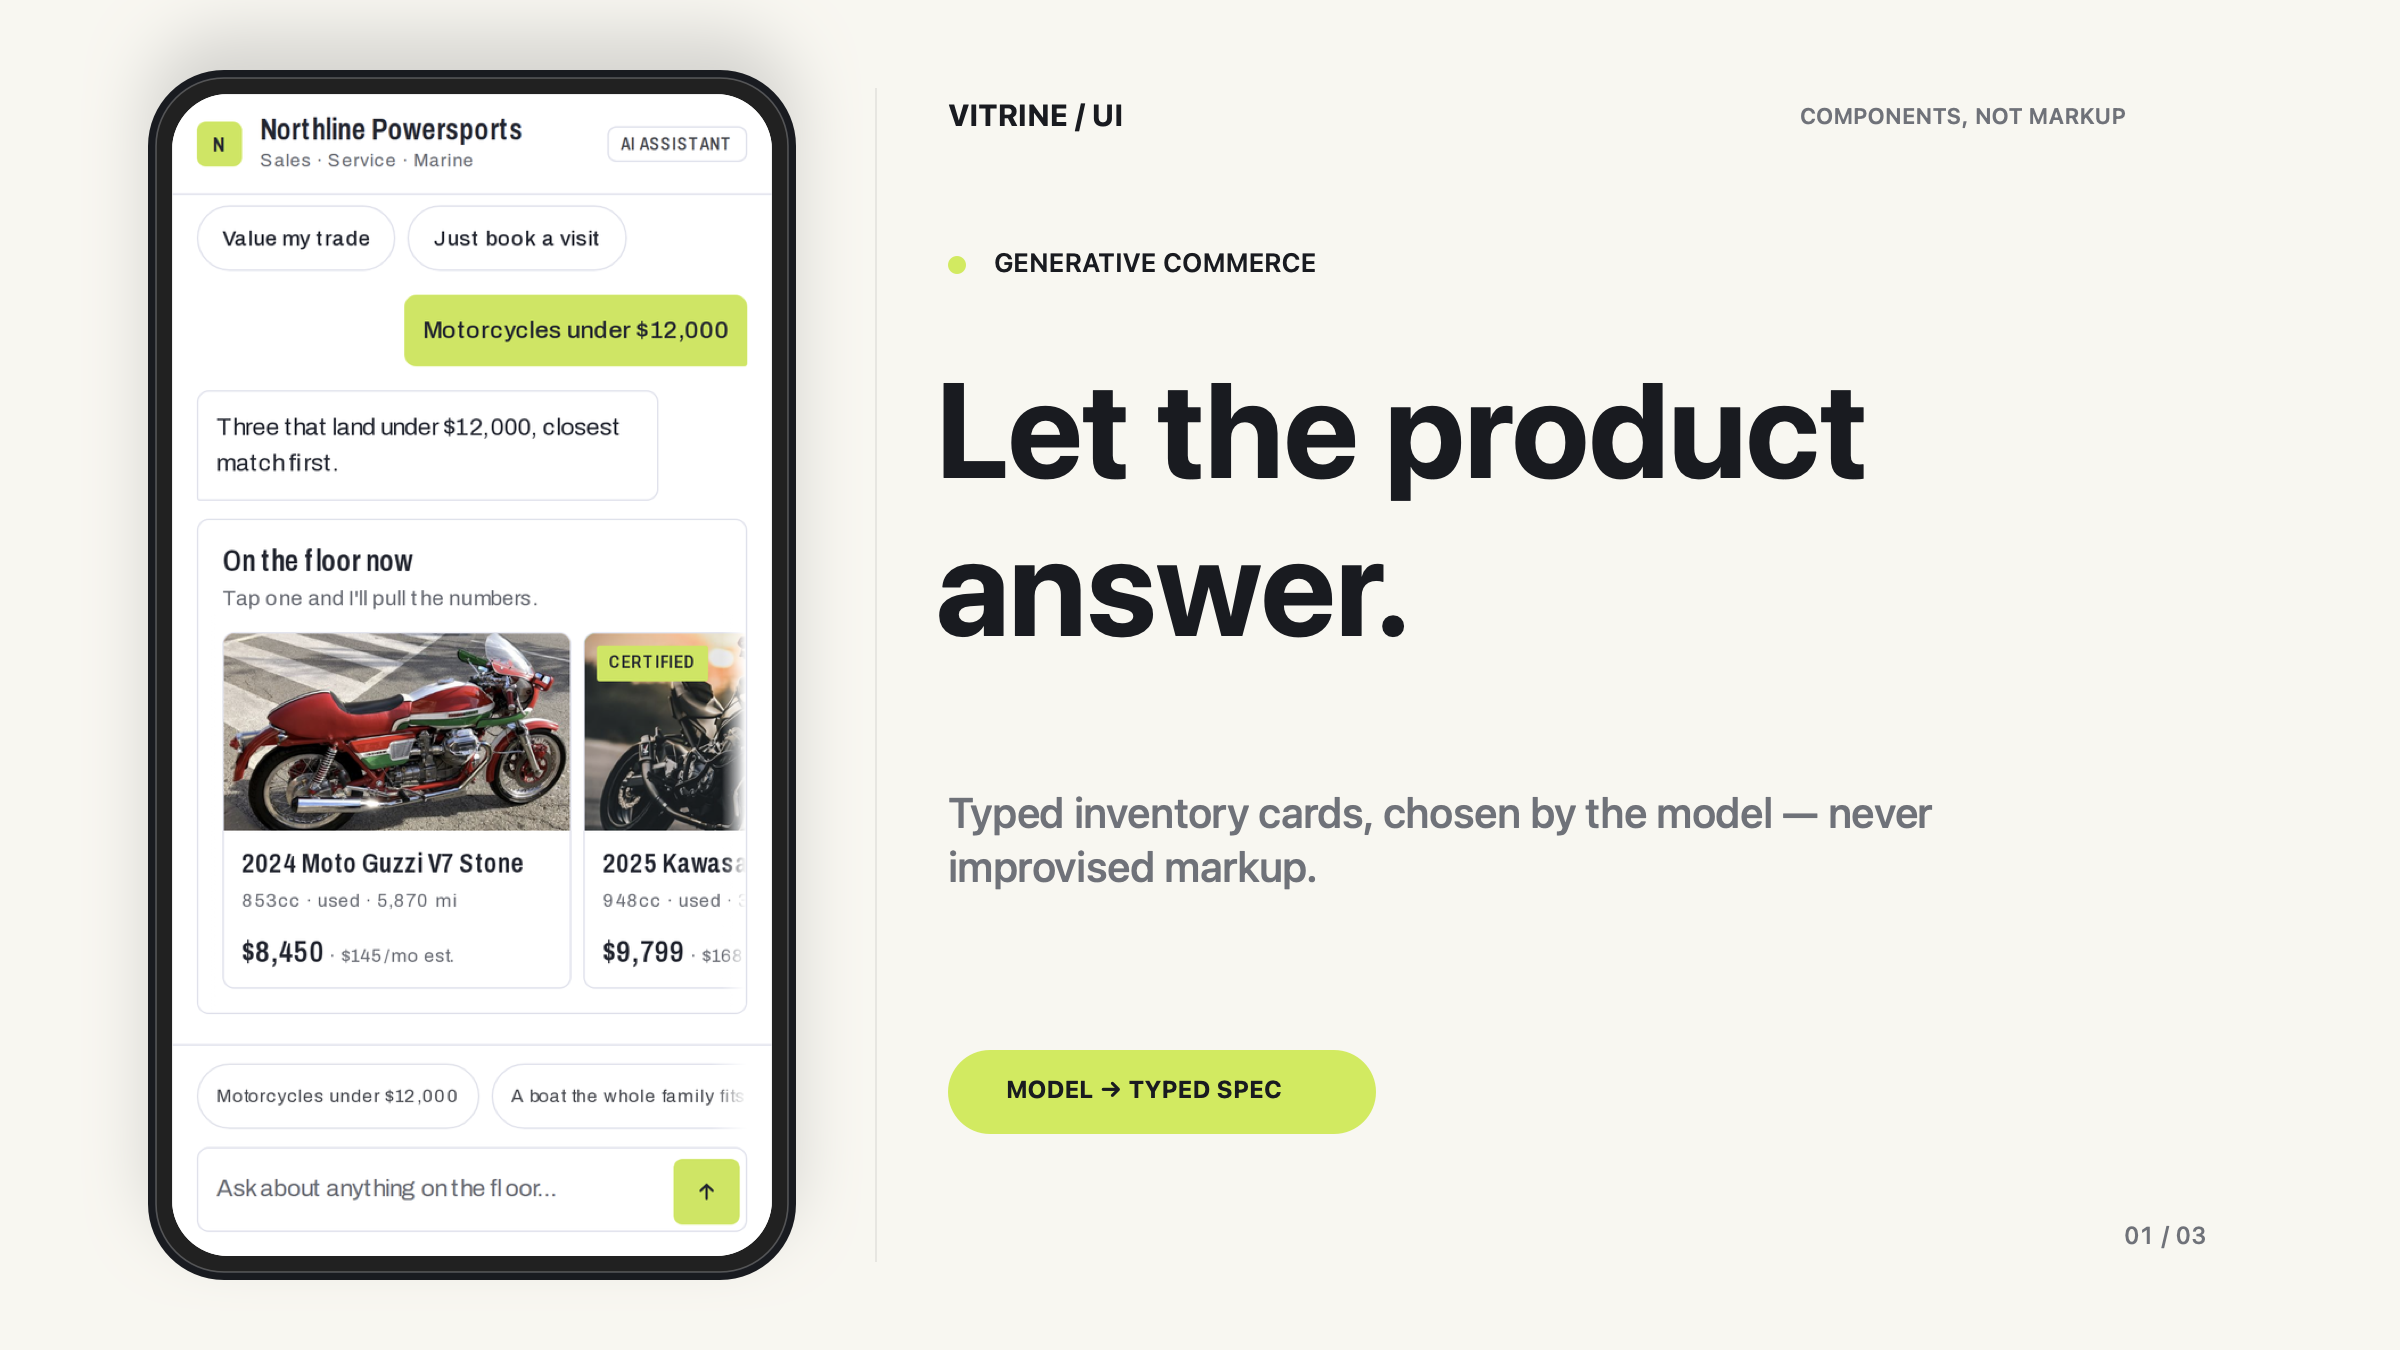
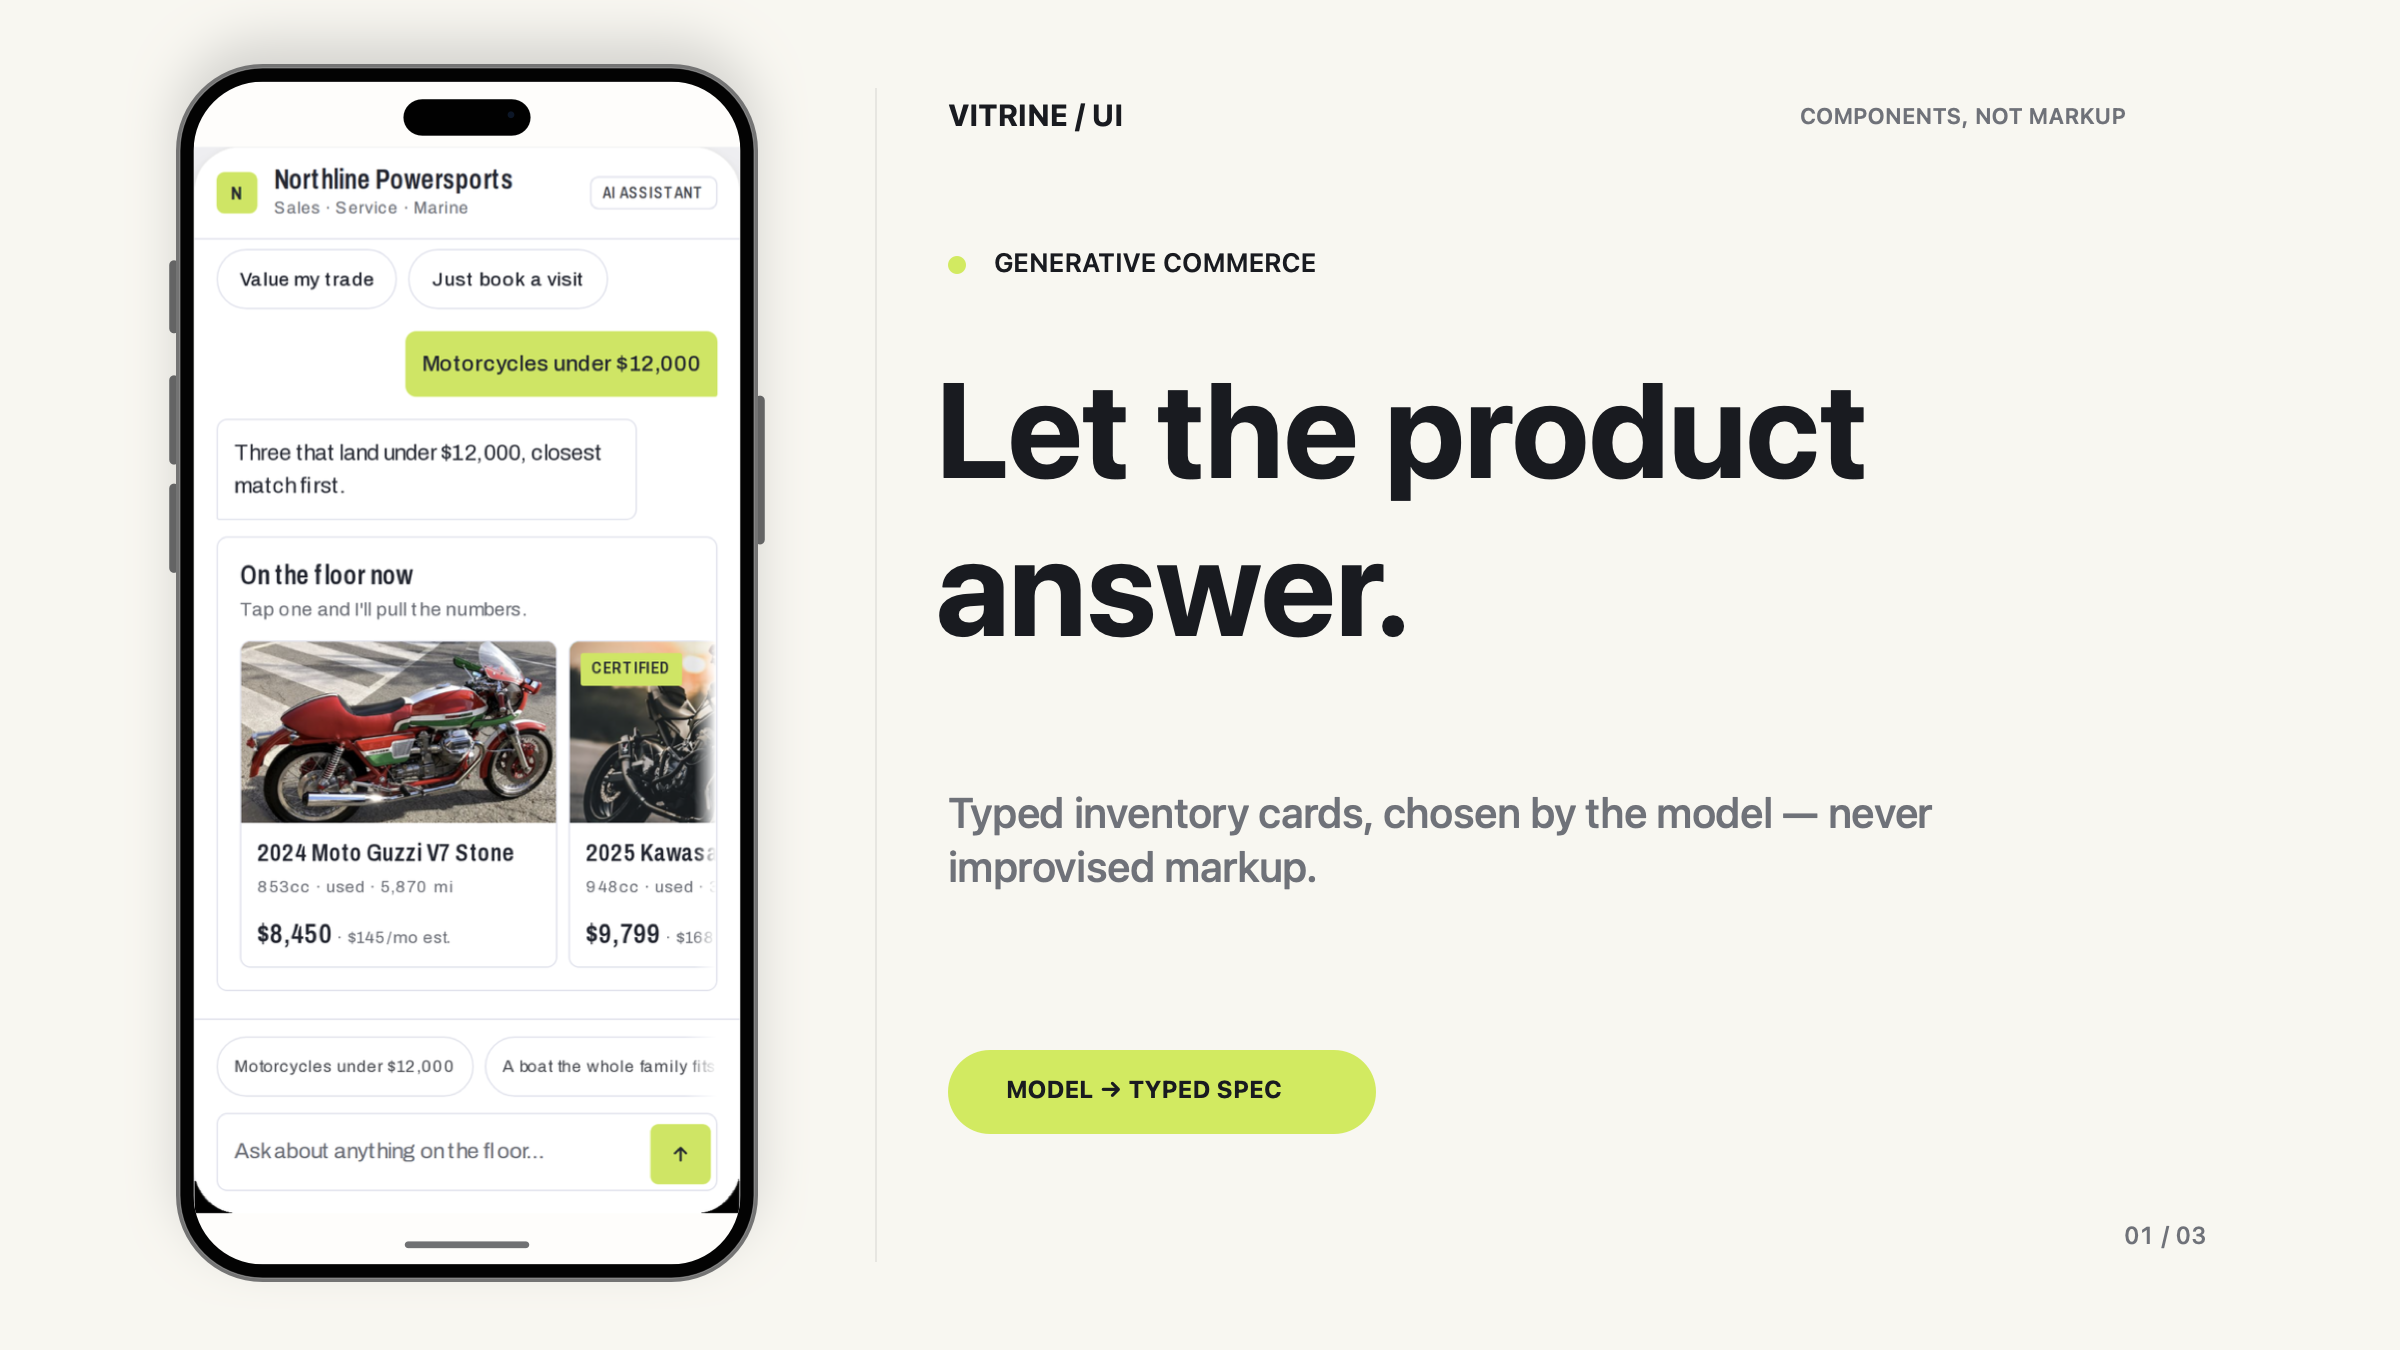
docs: refine showcase with iPhone 16 Pro frame

Changed region(s): [[0.0625, 0.0311, 0.3438, 0.9644]]

diff --git a/tools/readme_media/generate.swift b/tools/readme_media/generate.swift
@@ -9,6 +9,8 @@ struct Scene {
   let title: String
   let detail: String
   let accent: NSColor
+  let screenFill: NSColor
+  let screenChrome: NSColor
 }
 
 let repository = URL(fileURLWithPath: FileManager.default.currentDirectoryPath)
@@ -27,6 +29,7 @@ let surface = NSColor(calibratedRed: 0.992, green: 0.990, blue: 0.978, alpha: 1)
 let muted = NSColor(calibratedRed: 0.36, green: 0.37, blue: 0.40, alpha: 1)
 let lime = NSColor(calibratedRed: 0.76, green: 0.92, blue: 0.20, alpha: 1)
 let violet = NSColor(calibratedRed: 0.49, green: 0.17, blue: 0.78, alpha: 1)
+let darkScreen = NSColor(calibratedWhite: 0.025, alpha: 1)
 
 func crop(_ image: NSImage, sourceRect: NSRect) -> NSImage {
   NSImage(size: sourceRect.size, flipped: true) { bounds in
@@ -49,7 +52,9 @@ let cropDefinitions = [
     "GENERATIVE COMMERCE",
     "Let the product\nanswer.",
     "Typed inventory cards, chosen by the model — never improvised markup.",
-    lime
+    lime,
+    surface,
+    ink
   ),
   (
     NSRect(x: 577, y: 29, width: 527, height: 1028),
@@ -57,7 +62,9 @@ let cropDefinitions = [
     "COMPLIANCE BY CONSTRUCTION",
     "Numbers that\nstay honest.",
     "Interactive financing with the disclosure structurally attached.",
-    lime
+    lime,
+    surface,
+    ink
   ),
   (
     NSRect(x: 1126, y: 29, width: 527, height: 1028),
@@ -65,7 +72,9 @@ let cropDefinitions = [
     "WHITE-LABEL BY DESIGN",
     "One registry.\nEvery brand.",
     "Change the tenant, palette and inventory — not the trusted renderer.",
-    violet
+    violet,
+    darkScreen,
+    NSColor.white
   ),
 ]
 
@@ -76,7 +85,9 @@ let scenes = cropDefinitions.map { definition in
     eyebrow: definition.2,
     title: definition.3,
     detail: definition.4,
-    accent: definition.5
+    accent: definition.5,
+    screenFill: definition.6,
+    screenChrome: definition.7
   )
 }
 
@@ -104,51 +115,120 @@ func drawText(
   )
 }
 
-func drawProductFrame(
+func drawIPhone16Pro(
   scene: Scene,
   next: Scene?,
   progress: CGFloat,
   in outer: NSRect
 ) {
+  let scale = outer.width / 430
+  func scaled(_ value: CGFloat) -> CGFloat { value * scale }
+
+  NSGraphicsContext.current?.saveGraphicsState()
+  let actionButton = NSBezierPath(
+    roundedRect: NSRect(
+      x: outer.minX - scaled(5),
+      y: outer.minY + scaled(145),
+      width: scaled(7),
+      height: scaled(54)
+    ),
+    xRadius: scaled(3.5),
+    yRadius: scaled(3.5)
+  )
+  NSColor(calibratedWhite: 0.34, alpha: 1).setFill()
+  actionButton.fill()
+
+  for y in [230.0, 310.0] {
+    let volumeButton = NSBezierPath(
+      roundedRect: NSRect(
+        x: outer.minX - scaled(5),
+        y: outer.minY + scaled(y),
+        width: scaled(7),
+        height: scaled(66)
+      ),
+      xRadius: scaled(3.5),
+      yRadius: scaled(3.5)
+    )
+    NSColor(calibratedWhite: 0.34, alpha: 1).setFill()
+    volumeButton.fill()
+  }
+
+  let sideButton = NSBezierPath(
+    roundedRect: NSRect(
+      x: outer.maxX - scaled(2),
+      y: outer.minY + scaled(245),
+      width: scaled(7),
+      height: scaled(110)
+    ),
+    xRadius: scaled(3.5),
+    yRadius: scaled(3.5)
+  )
+  NSColor(calibratedWhite: 0.34, alpha: 1).setFill()
+  sideButton.fill()
+
   NSGraphicsContext.current?.saveGraphicsState()
   let shadow = NSShadow()
   shadow.shadowColor = ink.withAlphaComponent(0.16)
-  shadow.shadowBlurRadius = 34
-  shadow.shadowOffset = NSSize(width: 0, height: 18)
+  shadow.shadowBlurRadius = scaled(38)
+  shadow.shadowOffset = NSSize(width: 0, height: scaled(18))
   shadow.set()
   let shell = NSBezierPath(
     roundedRect: outer,
-    xRadius: 38,
-    yRadius: 38
+    xRadius: scaled(64),
+    yRadius: scaled(64)
   )
-  ink.setFill()
+  NSColor(calibratedWhite: 0.38, alpha: 1).setFill()
   shell.fill()
   NSGraphicsContext.current?.restoreGraphicsState()
 
-  let machinedEdge = outer.insetBy(dx: 4, dy: 4)
+  let machinedEdge = outer.insetBy(dx: scaled(3), dy: scaled(3))
   let edge = NSBezierPath(
     roundedRect: machinedEdge,
-    xRadius: 34,
-    yRadius: 34
+    xRadius: scaled(61),
+    yRadius: scaled(61)
   )
-  NSColor(calibratedWhite: 0.10, alpha: 1).setFill()
+  NSColor(calibratedWhite: 0.018, alpha: 1).setFill()
   edge.fill()
-  NSColor.white.withAlphaComponent(0.24).setStroke()
-  edge.lineWidth = 0.8
+  NSColor.white.withAlphaComponent(0.28).setStroke()
+  edge.lineWidth = scaled(0.8)
   edge.stroke()
 
-  let screen = outer.insetBy(dx: 12, dy: 12)
+  let screen = outer.insetBy(dx: scaled(13), dy: scaled(13))
   NSGraphicsContext.current?.saveGraphicsState()
   NSBezierPath(
     roundedRect: screen,
-    xRadius: 28,
-    yRadius: 28
+    xRadius: scaled(51),
+    yRadius: scaled(51)
   ).addClip()
-  surface.setFill()
+  scene.screenFill.setFill()
   screen.fill()
+  if let next {
+    next.screenFill.withAlphaComponent(progress).setFill()
+    screen.fill()
+  }
   NSGraphicsContext.current?.imageInterpolation = .high
+
+  func contentRect(for source: NSImage) -> NSRect {
+    let safeAreaTop = scaled(48)
+    let availableHeight = screen.height - safeAreaTop
+    let fit = min(
+      screen.width / source.size.width,
+      availableHeight / source.size.height
+    )
+    let fittedSize = NSSize(
+      width: source.size.width * fit,
+      height: source.size.height * fit
+    )
+    return NSRect(
+      x: screen.midX - fittedSize.width / 2,
+      y: screen.minY + safeAreaTop,
+      width: fittedSize.width,
+      height: fittedSize.height
+    )
+  }
+
   scene.image.draw(
-    in: screen,
+    in: contentRect(for: scene.image),
     from: NSRect(origin: .zero, size: scene.image.size),
     operation: .sourceOver,
     fraction: 1 - progress,
@@ -157,7 +237,7 @@ func drawProductFrame(
   )
   if let next {
     next.image.draw(
-      in: screen,
+      in: contentRect(for: next.image),
       from: NSRect(origin: .zero, size: next.image.size),
       operation: .sourceOver,
       fraction: progress,
@@ -166,6 +246,57 @@ func drawProductFrame(
     )
   }
   NSGraphicsContext.current?.restoreGraphicsState()
+  NSGraphicsContext.current?.restoreGraphicsState()
+
+  let island = NSBezierPath(
+    roundedRect: NSRect(
+      x: screen.midX - scaled(47),
+      y: screen.minY + scaled(13),
+      width: scaled(94),
+      height: scaled(27)
+    ),
+    xRadius: scaled(14),
+    yRadius: scaled(14)
+  )
+  NSColor(calibratedWhite: 0.008, alpha: 1).setFill()
+  island.fill()
+  NSColor.white.withAlphaComponent(0.10).setStroke()
+  island.lineWidth = scaled(0.65)
+  island.stroke()
+
+  let sensor = NSBezierPath(
+    ovalIn: NSRect(
+      x: screen.midX + scaled(30),
+      y: screen.minY + scaled(22),
+      width: scaled(5),
+      height: scaled(5)
+    )
+  )
+  NSColor(calibratedRed: 0.04, green: 0.07, blue: 0.12, alpha: 1).setFill()
+  sensor.fill()
+
+  let homeIndicatorRect = NSRect(
+    x: screen.midX - scaled(46),
+    y: screen.maxY - scaled(17),
+    width: scaled(92),
+    height: scaled(5)
+  )
+  let currentIndicator = NSBezierPath(
+    roundedRect: homeIndicatorRect,
+    xRadius: scaled(2.5),
+    yRadius: scaled(2.5)
+  )
+  scene.screenChrome.withAlphaComponent(0.62 * (1 - progress)).setFill()
+  currentIndicator.fill()
+  if let next {
+    let nextIndicator = NSBezierPath(
+      roundedRect: homeIndicatorRect,
+      xRadius: scaled(2.5),
+      yRadius: scaled(2.5)
+    )
+    next.screenChrome.withAlphaComponent(0.62 * progress).setFill()
+    nextIndicator.fill()
+  }
 }
 
 func render(scene: Scene, next: Scene?, progress: CGFloat, index: Int) -> NSImage {
@@ -193,11 +324,11 @@ func render(scene: Scene, next: Scene?, progress: CGFloat, index: Int) -> NSImag
       color: muted
     )
 
-    drawProductFrame(
+    drawIPhone16Pro(
       scene: scene,
       next: next,
       progress: progress,
-      in: NSRect(x: 74, y: 35, width: 324, height: 605)
+      in: NSRect(x: 88, y: 32, width: 291, height: 609)
     )
 
     func drawCopy(_ value: Scene, alpha: CGFloat) {

diff --git a/docs/assets/readme/README.md b/docs/assets/readme/README.md
@@ -3,6 +3,8 @@
 The three product states are cropped reproducibly from the real
 [`docs/hero.png`](../../hero.png) composition. The animated hero and static
 screenshots are generated locally; they are not reconstructed mockups.
+The animated composition presents those states inside an iPhone 16 Pro-style
+frame with device-correct proportions, controls, safe area and Dynamic Island.
 
 Regenerate from the repository root on macOS:
 
